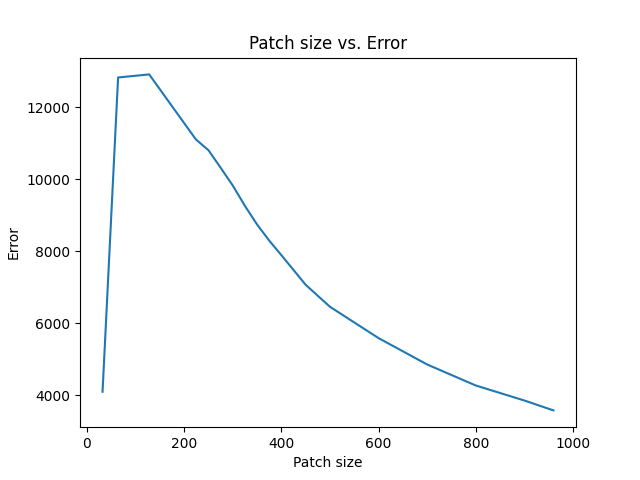
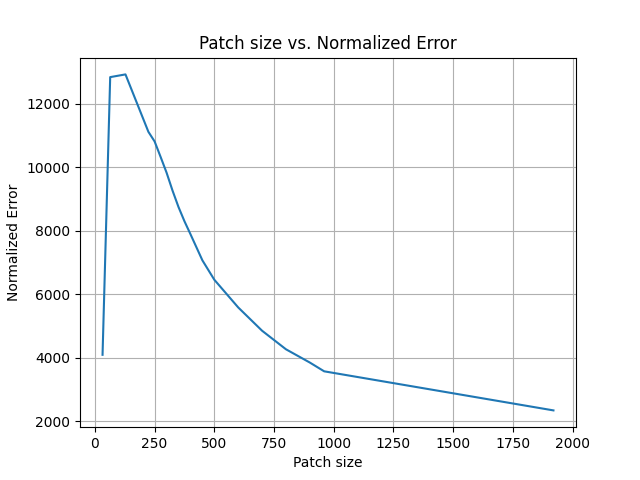
New Plot for Patch Size vs. normalized Error

diff --git a/source/analysis/patch_size/run_patch_size_experiments.py b/source/analysis/patch_size/run_patch_size_experiments.py
@@ -16,7 +16,7 @@ def patch_sindy(path, res):
     sys.stdout = output_buffer
 
     features_dir = path
-
+    print("Frames")
     frames = []
     for filename in os.listdir(features_dir):
         print(filename)
@@ -26,6 +26,7 @@ def patch_sindy(path, res):
             print(img.size)
             frames.append(img)
 
+    print("Features")
     features = np.stack(frames, axis=0)
     features = np.reshape(features, (48, res, res, 1))  # Artificially replicating pixel values as SINDy is a bit dumb
     spatial_grid_x, spatial_grid_y = np.meshgrid(np.arange(res), np.arange(res))
@@ -57,7 +58,9 @@ def patch_sindy(path, res):
     x = np.asarray(features)
     dt = np.arange(0, x.shape[-2] * 0.05, 0.05)
     model = ps.SINDy(feature_library=lib, optimizer=opt, feature_names=["u"])
+    print("Differentiate")
     x_dot = model.differentiate(x=x)
+    print("Fit")
     model.fit(x=x, x_dot=x_dot, t=dt)
     model.print()
 
@@ -69,8 +72,8 @@ def patch_sindy(path, res):
     PDE_dict[key] = output_content
     return PDE_dict
 
-patch_sizes = [32, 64, 128, 224, 250, 275, 300, 325, 350, 375, 400, 450, 500, 600, 700, 800, 900, 960]
-
+#patch_sizes = [32, 64, 128, 224, 250, 275, 300, 325, 350, 375, 400, 450, 500, 600, 700, 800, 900, 960, 1920]
+patch_sizes = [1920]
 # Feed Image to SINDy
 for patch_size in patch_sizes:
     path = "../../../data/patches/changemaps/" + str(patch_size) + "/"

diff --git a/source/analysis/patch_size/evaluate_patch_size_experiments.py b/source/analysis/patch_size/evaluate_patch_size_experiments.py
@@ -12,7 +12,8 @@ with open('Patch_effect_on_Error.txt') as fp:
         errors.append(error_normalized)
 
 plt.plot(patch_sizes, errors)
-plt.title("Patch size vs. Error")
+plt.title("Patch size vs. Normalized Error")
 plt.xlabel("Patch size")
-plt.ylabel("Error")
+plt.ylabel("Normalized Error")
+plt.grid("minor")
 plt.show()
